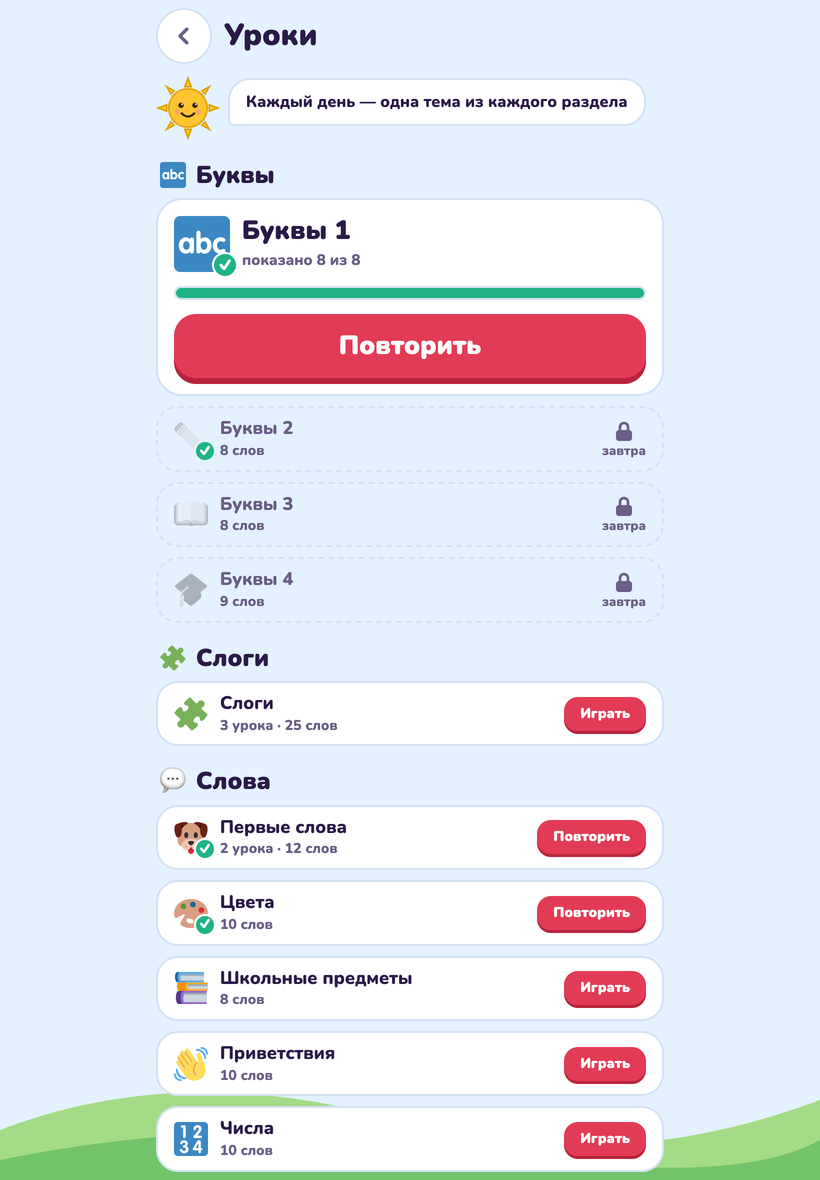
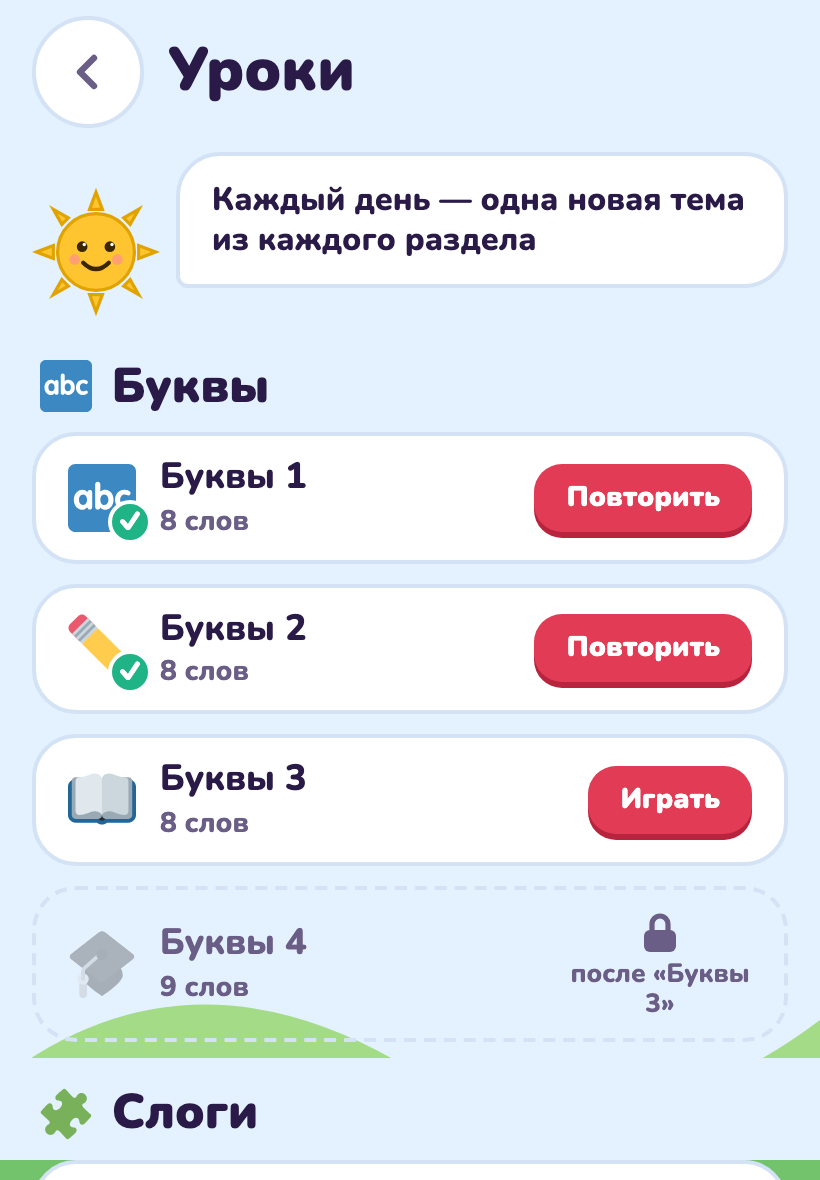
Locked-lesson toast no longer promises tomorrow, guide screenshots retaken for the topic order rule, stale introduced_on comment dropped

diff --git a/frontend/src/App.tsx b/frontend/src/App.tsx
@@ -106,7 +106,7 @@ export default function App() {
         setToken(null)
         setScreen({ kind: 'login', code: null })
       } else if (e instanceof ApiError && e.status === 409) {
-        setNotice('Этот урок откроется завтра')
+        setNotice('Этот урок пока недоступен')
       } else {
         setNotice('Нет связи. Проверь интернет и попробуй ещё')
       }

diff --git a/backend/app/models/learning.py b/backend/app/models/learning.py
@@ -45,7 +45,7 @@ class WordProgress(Base):
     introduced: Mapped[bool] = mapped_column(
         Boolean, nullable=False, default=False, server_default="false"
     )
-    # Tbilisi day the word was first shown; "one new topic per day" is decided by it.
+    # Tbilisi day the word was first shown.
     introduced_on: Mapped[date | None] = mapped_column(Date)
     learned_at: Mapped[datetime | None] = mapped_column(DateTime(timezone=True))
 

diff --git a/.claude/skills/mziko-design/SKILL.md b/.claude/skills/mziko-design/SKILL.md
@@ -231,8 +231,8 @@ body { font-family: 'Nunito', system-ui, -apple-system, 'Segoe UI', Roboto, sans
 - «На сегодня всё! Завтра новые слова» — лимит дня.
 - «Всё закреплено!» — повторять нечего.
 - «Нет связи. Проверь интернет и попробуй ещё» — оффлайн.
-- «Этот урок откроется завтра» — блокировка (тост при попытке начать запертый
-  урок). Подпись под замком темы — «завтра» (раздел уже взял сегодня новую
+- «Этот урок пока недоступен» — блокировка (тост при попытке начать запертый
+  урок, без срока: причина может быть и в порядке тем). Подпись под замком темы — «завтра» (раздел уже взял сегодня новую
   тему) или «после «Цвета»» (не пройдена предыдущая тема раздела).
 - «Каждый день — одна новая тема из каждого раздела» — подсказка маскота на
   главной и на экране «Уроки».

diff --git a/docs/features/topic-restart.md b/docs/features/topic-restart.md
@@ -25,8 +25,8 @@
 тема никогда не заперта, и обнуление лимит дня не тратит, потому что новизна
 темы считается по дню её самого первого занятия, а не по каждому заходу.
 Тему, которую ещё не начинали, обнулять не с чего: `restart_topic` сработает
-на неё, только если она и так открыта, иначе 409 и тост «Этот урок откроется
-завтра». После обнуления тема снова «не пройдена», поэтому следующая не
+на неё, только если она и так открыта, иначе 409 и тост «Этот урок пока
+недоступен». После обнуления тема снова «не пройдена», поэтому следующая не
 начатая тема того же раздела ждёт, пока её пройдут заново. Монета за слово
 по-прежнему раз в день, повтор второй раз не платит.
 

diff --git a/docs/features/lessons-menu.md b/docs/features/lessons-menu.md
@@ -66,8 +66,9 @@
   замок и подпись «завтра» или «после «Цвета»» (`lockedReason` во фронтенде).
   Когда все темы раздела пройдены и ни одна не выбрана, над ними плашка
   «Все буквы пройдены, можно повторить».
-- **Сбои** не менялись: 409 от сервера показывает «Этот урок откроется
-  завтра», нет связи — «Нет связи. Проверь интернет и попробуй ещё».
+- **Сбои**: 409 от сервера показывает «Этот урок пока недоступен» (без срока:
+  причина может быть и в порядке тем, а не только в лимите дня), нет связи —
+  «Нет связи. Проверь интернет и попробуй ещё».
 
 ## Как это работает
 
